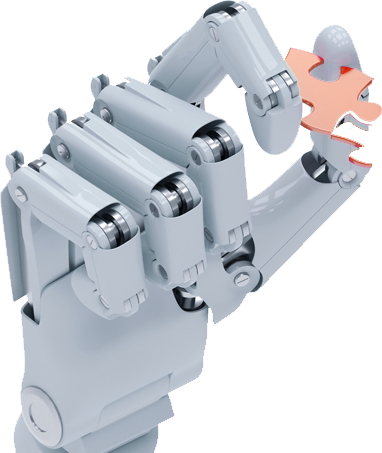
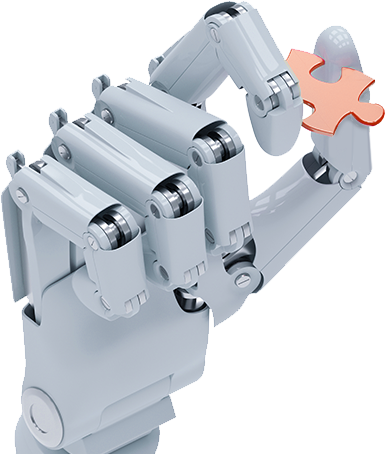
Ascetic updates

diff --git a/css/all.css b/css/all.css
@@ -150,7 +150,29 @@ a {
   top: 0;
   left: 0;
   right: 0;
-  z-index: 99; }
+  z-index: 99;
+  -webkit-box-shadow: 1px 3px 5px #425770;
+  -moz-box-shadow: 1px 3px 5px #425770;
+  box-shadow: 1px 3px 5px #425770; }
+
+.search-form {
+  position: relative; }
+  .search-form .search-submit {
+    background: none;
+    text-indent: -9999px;
+    border: 0;
+    position: absolute;
+    right: 0;
+    z-index: 2;
+    padding: 4px 10px;
+    top: 0; }
+  .search-form .search-icon {
+    position: absolute;
+    right: 5px;
+    top: 5px; }
+  .search-form .search-field {
+    padding: 3px 30px 3px 3px;
+    border: 1px solid #f4f5f6; }
 
 #robot-wrap {
   position: relative; }
@@ -161,7 +183,7 @@ a {
     top: 0;
     left: -9999px; }
   #robot-wrap #robot-right {
-    top: -126px;
+    top: -135px;
     right: -9999px; }
 
 #jumbotron {
@@ -386,8 +408,13 @@ a {
       margin-right: 40px; }
 
   #footer ul li a {
-    border-right: 1px solid #d2202e; } }
+    border-right: 1px solid #d2202e; }
+
+  #robot-right {
+    top: -105px; } }
 @media (min-width: 992px) {
   /* large */ }
 @media (min-width: 1200px) {
-  /* extra large */ }
+  /* extra large */
+  #robot-right {
+    top: 135px; } }

diff --git a/css/all.scss b/css/all.scss
@@ -85,6 +85,29 @@ a {
   left: 0;
   right: 0;
   z-index: 99;
+  @include box-shadow(1px 3px 5px, $blue);
+}
+.search-form {
+  position: relative;
+    .search-submit {
+      background: none;
+      text-indent: -9999px;
+      border: 0;
+      position: absolute;
+      right: 0;
+      z-index: 2;
+      padding: 4px 10px;
+      top: 0;
+    }
+    .search-icon {
+      position: absolute;
+      right: 5px;
+      top: 5px;
+    }
+    .search-field {
+      padding: 3px 30px 3px 3px;
+      border: 1px solid $gray;
+    }
 }
 #robot-wrap {
   position: relative;
@@ -97,7 +120,7 @@ a {
       left: -9999px;
     }
     #robot-right {
-      top: -126px;
+      top: -135px;
       right: -9999px;
     }
 }
@@ -377,10 +400,15 @@ a {
   #footer ul li a{
       border-right: 1px solid $red;
   }
+  #robot-right {
+    top: -105px;
+  }
 }
 @media(min-width:992px){ /* large */
 
 }
 @media(min-width:1200px){ /* extra large */
-
+  #robot-right {
+    top: 135px;
+  }
 }

diff --git a/js/custom.js b/js/custom.js
@@ -74,11 +74,12 @@ function slideShow() {
 
 function robotArms() {
         if($(window).width() >= 1200) {
-            $('#robot-right').animate({right : '101px',opacity: 1},2000);
+            $('#robot-right').animate({right : '15px',opacity: 1},2000);
         } else if($(window).width() > 992 && $(window).width() < 1200) {
-            $('#robot-right').animate({right : '-99px',opacity: 1},2000);
+            $('#robot-right').animate({right : '-210px',opacity: 1},2000);
         } else if($(window).width() > 768 && $(window).width() < 992) {
-            $('#robot-right').animate({right : '-319px',opacity: 1},2000);
+            $('#robot-right').animate({right : '-349px',opacity: 1},2000);
+            $('#robot-right').animate({top : '-105px',opacity: 1},2000);
         } else {
         }
 }

diff --git a/header.php b/header.php
@@ -58,7 +58,7 @@
                 <img class="hidden-xs img-responsive" id="robot-left" src="<?php bloginfo('template_url');?>/images/robot-left.png" alt="">
                 <img class="hidden-xs img-responsive" id="robot-right" src="<?php bloginfo('template_url');?>/images/robot-right.png" alt="">
                 <div class="hero col-md-7 col-lg-6 col-md-offset-3 " id="jumbotron">
-                    <h1>About the Challenge</h1>
+                    <h1><a href="<?php bloginfo('url');?>/about">About the Challenge</a></h1>
                         <?php if ( have_posts() ) :
                             while ( have_posts() ) : the_post(); ?>
                                  <?php the_content();?>

diff --git a/searchform.php b/searchform.php
@@ -3,4 +3,5 @@
         <input type="search" class="search-field" placeholder="Search …" value="" name="s" title="Search for:" />
     </label>
     <input type="submit" class="search-submit" value="Search" />
+    <span class="glyphicon glyphicon-search search-icon"></span>
 </form>
